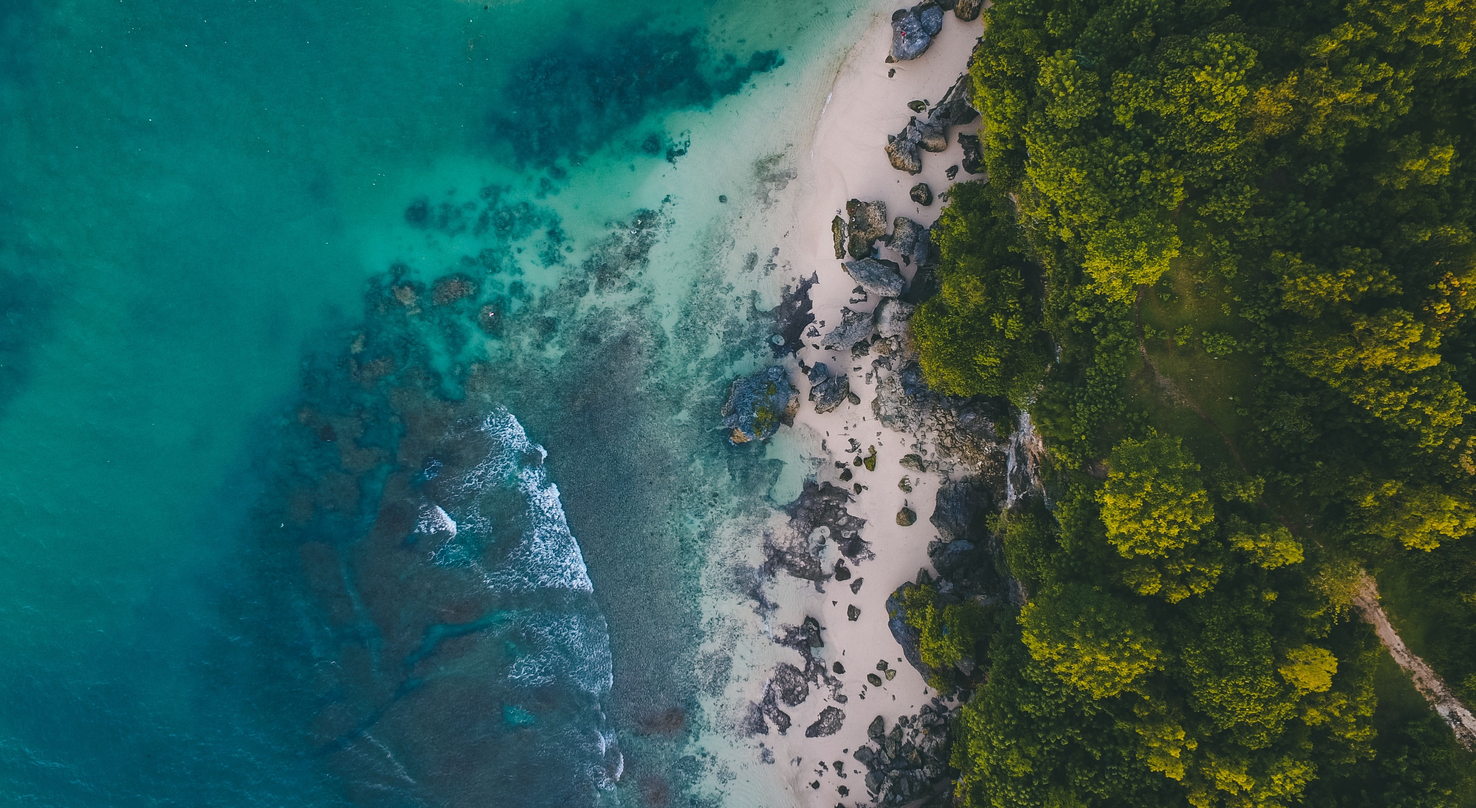
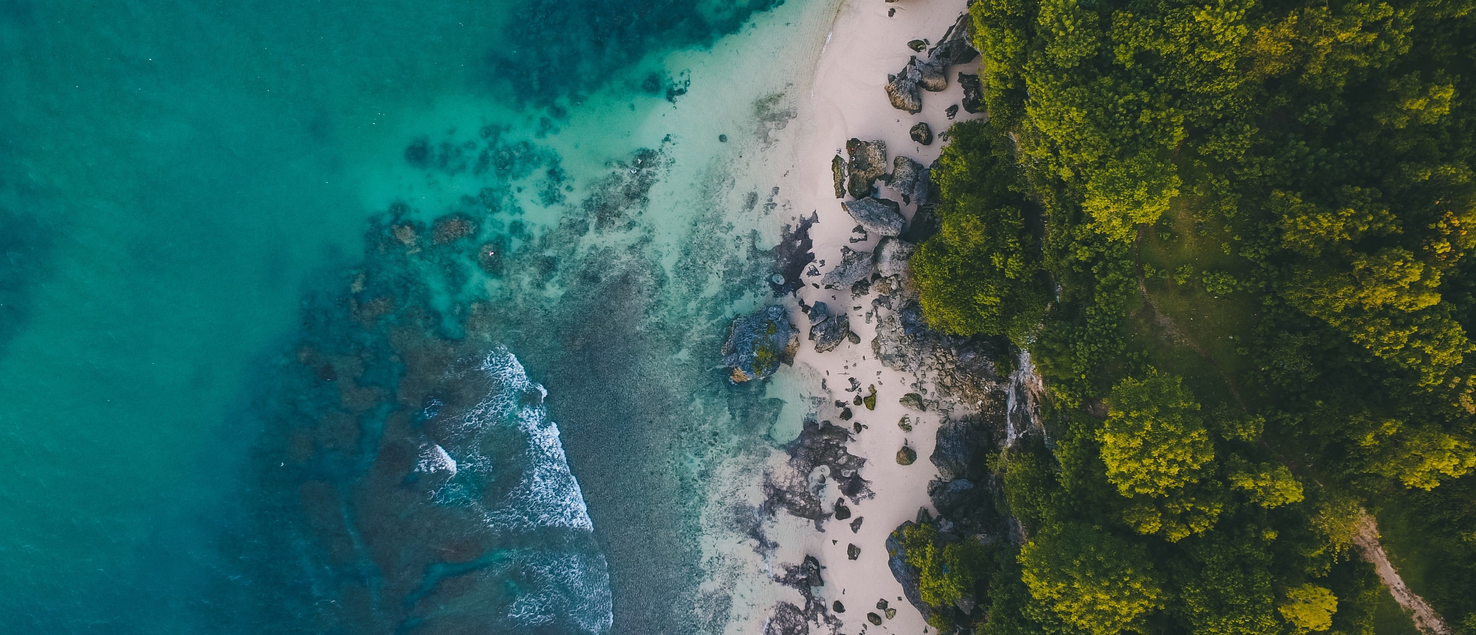
correct structure and style Get Informed section. Fix hero image

diff --git a/index.html b/index.html
@@ -35,24 +35,67 @@
         </nav>
     </header>
 
-    <section id="hero-image-about">
-        <div id="hero-image">
+    <section>
+        <div>
+            <img src="../assets/images/hero-image.jpg" alt="aerial view of a clear ocean horizontaly meeting the beach sand that then turns into a dense vegetation" style="width:100%;height:500px;">        
         </div>
     </section>
-    <section id="get-informed-about">
-        <div class="div-title"><h2>Get informed</h2></div>
-        <div id="why-about">
-            <h3>Why</h3>
+    <br>
+    <section class="section">
+        <div class="div-title">
+            <h1>Get Informed</h1>
         </div>
-        <div id="how-about">
-            <h3>How</h3>
+        
+        <div class="rectangle-info-left">
+            <a href="#"><img src="/assets/images/why.jpg" alt="children and adults caretakers on a beach hi-fiving each other"  width="100%"></a>
+            <h2 class="rec-text-center">WHY</h2>
+            <p class="rec-text-center">would I go vegan</p>
+            <hr>
+            <br>
+            <ul>
+                <li>For your health</li>
+                <li>For the animals</li>
+                <li>For the planet</li>
+                <br>
+                <li class="read-more"><a href="#">Read more...</a></li>
+            </ul>
         </div>
-        <div id="what-about">
-            <h3>What</h3>
+
+        <div class="rectangle-info-right">
+            <a href="#"><img src="/assets/images/what.jpg" alt="top view of people at a table having a meal" width="100%"></a>
+            <h2 class="rec-text-center">WHAT</h2>
+            <p class="rec-text-center">would I eat as vegan</p>
+            <hr>
+            <br>
+            <ul>
+                <li>Fruits & Greens</li>
+                <li>Beans & Cruciferous</li>
+                <li>Cereals & Seeds</li>
+                <br>
+                <li class="read-more"><a href="#">Read more...</a></li>
+            </ul>
+        </div>
+        <div class="rectangle-info-center">
+            <a href="#"><img src="/assets/images/how.jpg" alt="Tow young woman giggleing while grocery shopping" width="100%"></a>
+            <h2 class="rec-text-center">HOW</h2>
+            <p class="rec-text-center">would I do veganism</p>
+            <hr>
+            <br>
+            <ul>
+                <li>Food</li>
+                <li>Objects</li>
+                <li>Self-care</li>
+                <br>
+                <li class="read-more"><a href="#">Read more...</a></li>
+            </ul>
         </div>
     </section>
+    <br>
+
     <section>about</section>
+    
     <section>recipes</section>
+    
     <section>subscribe form</section>
 
     <footer>

diff --git a/assets/css/style.css b/assets/css/style.css
@@ -2,7 +2,7 @@
 
 body {
     font-family: Quicksand, Arial, Helvetica, sans-serif;
-    background-color: rgb(155, 189, 194);
+    background-color:
 }
 
 * {
@@ -71,44 +71,95 @@ h4 {
 #hero-image {
     height: 500px;
     width: 100%;
-    background: url(/workspace/project1/assets/images/hero-image.jpg) no-repeat center center;
+    background: url("../assets/images/hero-image.jpg") no-repeat center center;
 }
 
 /* Get informed section */
 
-#get-informed-about {
+.section {
     height: 500px;
+}
+
+.image-container {
+    width: 300px;
+    height: 500px;
+    padding: 30px;
+    border-style: solid;
+}
+
+.image-rec-cover {
+    background-image: url("../assets/images/why.jpg") no-repete center center;
+    height: 100%;
 }
 
 .div-title {
     text-align: center;
     padding-bottom: 30px;
+    padding-top: 50px;
 }
 
-#why-about {
-    background-color: blue;
+.rectangle-info-left {
+    border-style: outset;
+    border-width: 1px;
     width: 25%;
     float: left;
-    padding: 30px;
+    padding: 15px;
     margin-left: 3%;
 
 }
 
-#what-about {
-    background-color: green;
+.rec-text-center {
+    text-align: center;
+}
+
+.rectangle-info-right {
+    border-style: outset;
+    border-width: 1px;
     width: 25%;
     float: right;
-    padding: 30px;
+    padding: 15px;
     margin-right: 3%;
 
 }
-#how-about {
-    background-color: yellow;
+.rectangle-info-center {
+    border-style: outset;
+    border-width: 1px;
     width: 25%;
-    padding: 30px;    
+    padding: 15px;    
     margin: 0 auto;
 
 }
+
+hr {
+    size: 2px;
+}
+
+.rectangle-info-left li {
+    list-style-type: none;
+}
+.rectangle-info-right li {
+    list-style-type: none;
+}
+.rectangle-info-center li {
+    list-style-type: none;
+}
+
+.read-more {
+    text-align: right;
+    list-style-type: none;
+    color: #3a3a3a;
+    
+}
+
+.read-more a {
+    text-decoration: none;
+    color: inherit;
+}
+
+.read-more a:hover {
+    border-bottom: 1px solid #3a3a3a;
+}
+
 
 /* Footer */
 
